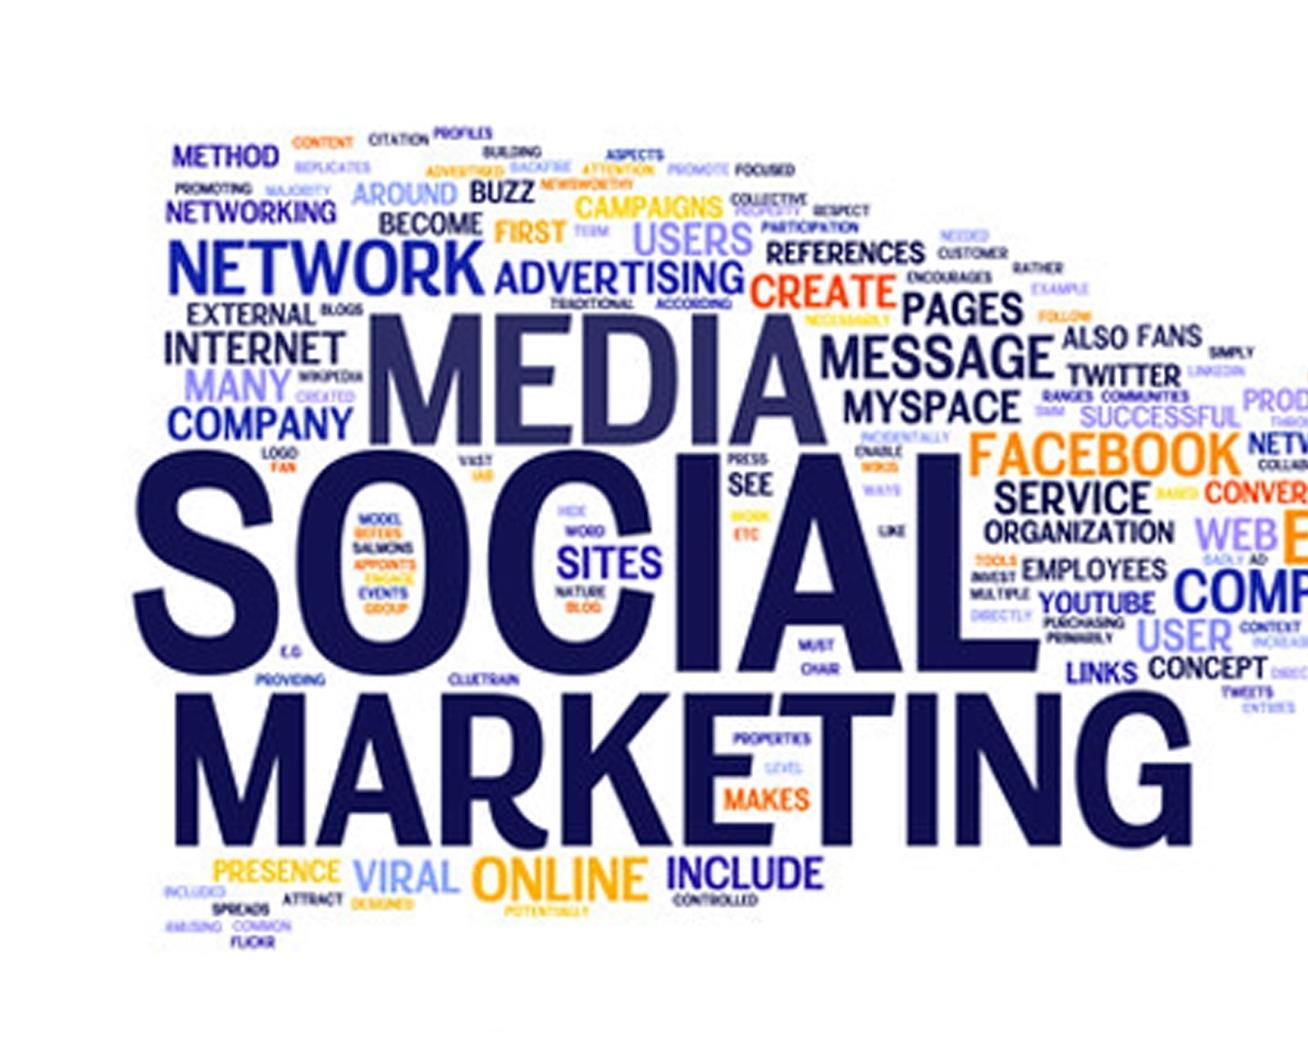
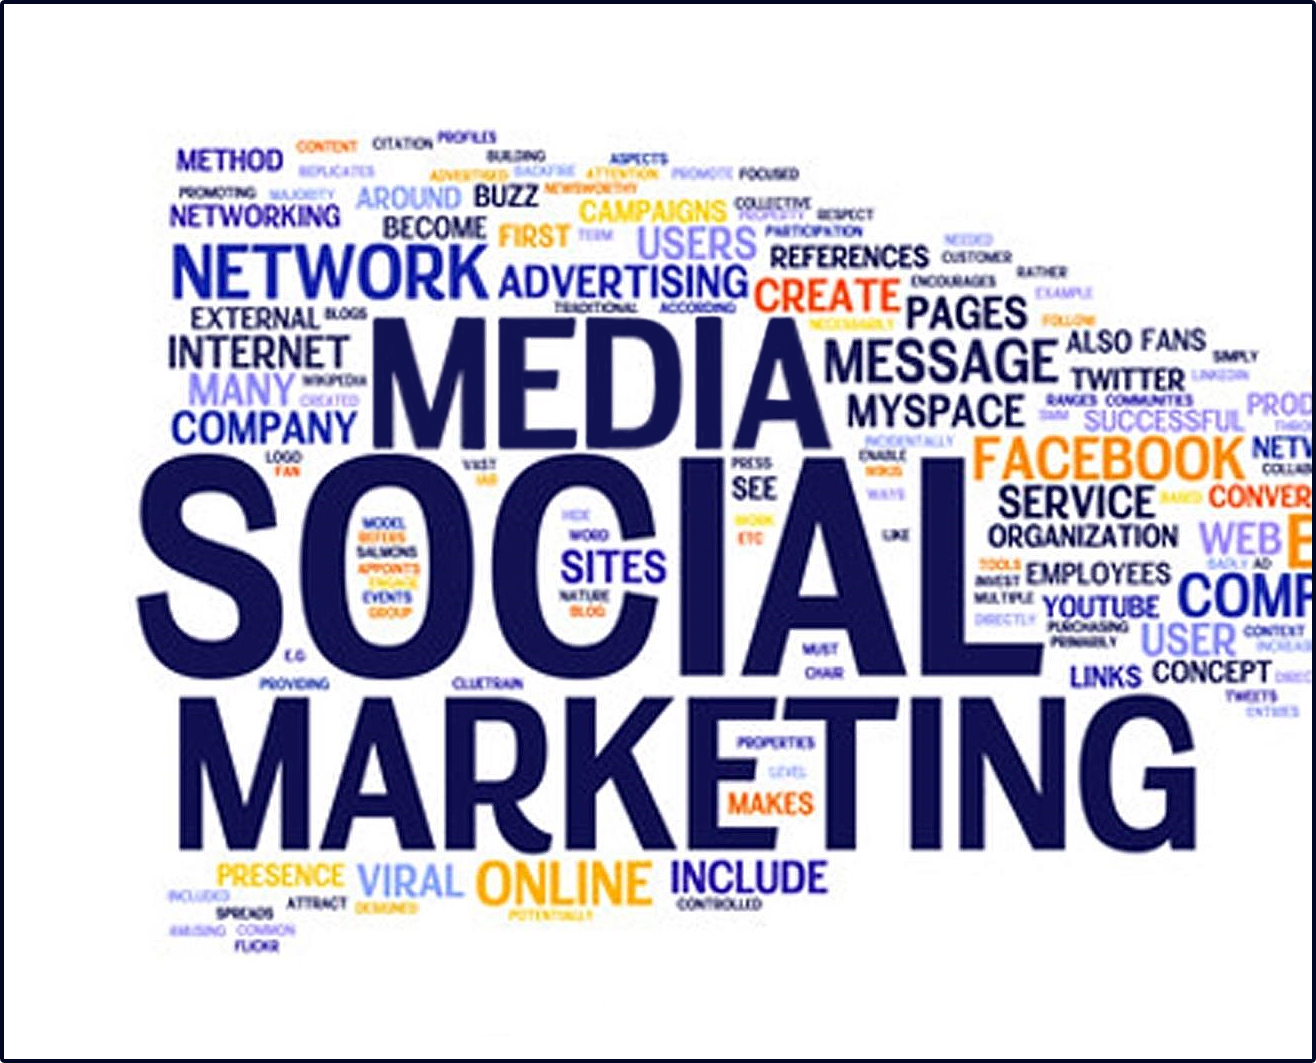
Replaced SM Img  & Styled. Corrected grammar error

Changed region(s): [[0.0, 0.0, 1.0, 1.0], [0.4587, 0.6066, 0.4893, 0.637]]

diff --git a/src/components/SocialMedia.jsx b/src/components/SocialMedia.jsx
@@ -12,7 +12,9 @@ export default function SocialMedia() {
         />
         <h1>
           {" "}
-          Social Media: Why It Is 100% Essential (and How to Use It Well).
+          Social Media: Why It Is 100% Essential 
+          (and How to Use It Well)
+        
         </h1>
         <p>
           Social media is a form of electronic communication designed to let
@@ -28,7 +30,7 @@ export default function SocialMedia() {
           “Social media are interactive computer-mediated technologies that
           facilitate the creation or sharing of information, ideas, career
           interests and other forms of expression via virtual communities and
-          networks.” They go on further to say,”Social media can help to improve
+          networks.” They go on further to say, ”Social media can help to improve
           an individual's sense of connectedness with real or 
           <a href="https://en.wikipedia.org/wiki/Online">online</a>
            communities and can be an effective communication (or 

diff --git a/src/style/Social Media/SocialMedia.css b/src/style/Social Media/SocialMedia.css
@@ -1,13 +1,18 @@
 @charset "UTF-8";
 .social-media {
   margin: 5% auto 8%;
-  width: 95%;
+  width: 91%;
   text-align: justify;
 }
 
 .social-media img {
-  height: 50vw;
-  width: 100%;
+  height: 40vw;
+  width: 80%;
+  display: block;
+  margin-left: auto;
+  margin-right:auto;
+  padding-bottom: 5%;
+  
 }
 
 .social-media h1 {
